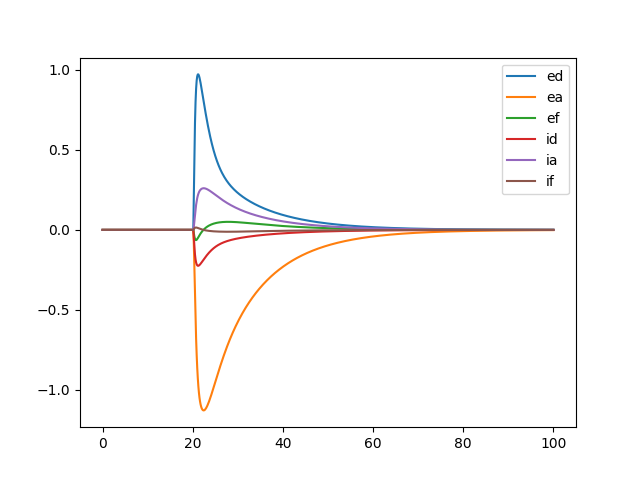
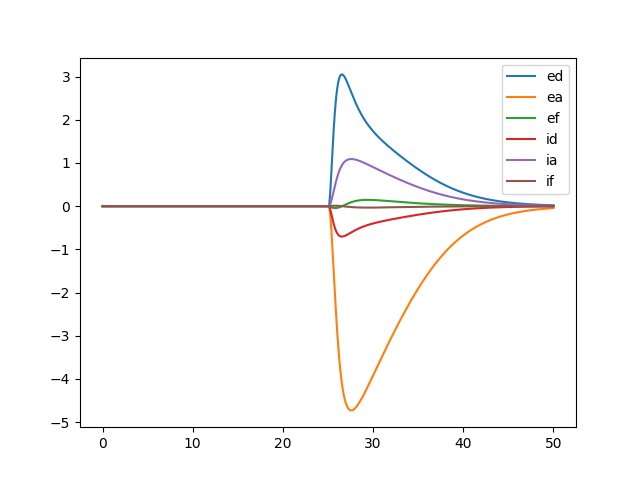
updates

diff --git a/conv.py b/conv.py
@@ -7,93 +7,69 @@ from dependencies import plotting_convention
 from scipy.optimize import minimize
 from scipy.stats import norm
 import pandas
+import pickle
 
-
-#create normally distributed firing rates per kernel
-rv = norm(loc=25, scale=8)
-rv1 = norm(loc=60,scale=10)
-rv2 = norm(loc=80,scale=10)
-rvs=[rv,rv1,rv2]
+kerns = pickle.load(open('data/kernels.p','rb'))
+dt_k = pickle.load(open('data/dts.p','rb'))
+kerns_to_run=[0,1]
+# kerns_to_run = [0,1,3,4]
+# kerns_to_run = [0,1,2,3,4,5]
+param_idx = []
+for i in kerns_to_run:
+    param_idx.append(i*3)
+    param_idx.append(i * 3+1)
+    param_idx.append(i * 3+2)
 
 #3read real data
 df_on = pandas.read_csv('data/inhib_on.csv')
 df_off = pandas.read_csv('data/inhib_blocked.csv')
 
 # parameters
-num_tsteps = 1000
-# num_tsteps = len(df_on['x'])
-kernel_num_tsteps = 200
-num_kernels = 3
-dt = 0.1
+num_tsteps = len(df_off['x'])
+kernel_num_tsteps = len(kerns[0])
+num_kernels = len(kerns[1])
+dt = 20./num_tsteps
+
+dt_k = dt_k/kernel_num_tsteps
 t = np.arange(num_tsteps) * dt
 
-taus = [0.5, 2, 3] #timeconstants
-amps = [1, -0.7, -0.25] #amplitudes
 colors = ['b', 'r', 'orange']
 colors_opt = ['cyan', 'pink', 'yellow']
 kernels = []
-for idx in range(num_kernels):
-    k_ = np.zeros(kernel_num_tsteps)
-    k_[int(kernel_num_tsteps / 2):] = amps[idx] * np.exp(-t[:int(kernel_num_tsteps/2)] / taus[idx])
-    kernels.append(k_)
 
-t_locs = [25, 60, 80]
-stds = [8, 10, 10]
-amps = [1.8, 1, 0.7]
+for idx in kerns_to_run:
+    k_ = kerns[1][idx]
+    kernels.append(k_)
+num_kernels_to_run = len(kernels)
 
 num_params_per_kernel = 3
 
-correct = np.zeros(num_kernels*num_params_per_kernel)
-for j,i in enumerate(range(0,num_kernels*num_params_per_kernel,3)):
-    correct[i]= t_locs[j]
-    correct[i+1]=stds[j]
-    correct[i+2]=amps[j]
-
-firing_rates = [amps[idx] * rvs[idx].pdf(t)
-                for idx in range(num_kernels)]
-
-data = np.zeros(num_tsteps)
-for idx in range(num_kernels):
-    data += ss.convolve(firing_rates[idx], kernels[idx], mode="same")
-
-x0 = [50, 10, 1,
-      50, 10, 1,
-      50, 10, 1,
-      ]
+data = np.asarray(df_off['inhib_blocked'])
 ## VELDIG AVHENGIG AV IINiTALBETINGELSER
 ## LITT TESTING KAN TYDE PÅ AT HØYE VERDIER TREFFER BEDRE ENN LAVE
-x0 = [50, 10, 1,
-      90, 10, 1,
-      90, 10, 1,
+x0 = [15, 5, 1,
+      15, 5, 1,
+      15, 5, 1,
+      15, 5, 1,
+      15, 5, 1,
+      15, 5, 1
       ]
 
-# bounds = [
-#     [t[0], t[-1]], [0, 50], [0, 2],
-#     [t[0], t[-1]], [0, 50], [0, 2],
-#     [t[0], t[-1]], [0, 50], [0, 2],
-#     ]
 bounds = [
     #   loc           std       amp
-    [t[0], t[-1]], [1e-7, 50], [0, 2],
-    [t[0], t[-1]], [1e-7, 50], [0, 2],
-    [t[0], t[-1]], [1e-7, 50], [0, 2],
+    [t[0], t[-1]], [1e-7, 10], [0, 5],
+    [t[0], t[-1]], [1e-7, 10], [0, 5],
+    [t[0], t[-1]], [1e-7, 10], [0, 5],
+    [t[0], t[-1]], [1e-7, 10], [0, 5],
+    [t[0], t[-1]], [1e-7, 10], [0, 5],
+    [t[0], t[-1]], [1e-7, 10], [0, 5]
     ]
-# print(x0)
-# print(bounds)
-def blah(data,l1,l2,l3,s1,s2,s3,a1,a2,a3):
-    RV1 = norm(loc=l1,scale=s1)
-    RV2 = norm(loc=l2, scale=s2)
-    RV3 = norm(loc=l3, scale=s3)
-    fits = ss.convolve(a1*RV1.pdf(t),kernels[0],mode='same')+ss.convolve(a2*RV2.pdf(t),kernels[1],mode='same')+ ss.convolve(a3*RV3.pdf(t),kernels[2],mode='same')
-    return np.sum((data-fits)**2)
 
 def minimize_firing_rates(x, *args):
     data = args[0]
-    fit_ = np.zeros(num_tsteps)
-    for idx in range(num_kernels):
+    fit_ = np.zeros(len(data[0]))
+    for idx in range(num_kernels_to_run):
         RV = norm(loc=x[0 + idx * num_params_per_kernel], scale=x[1 + idx * num_params_per_kernel])
-        # if scale = 0, the above whines. Adding a small number to scale
-        # RV = norm(loc=x[0 + idx * num_params_per_kernel], scale=x[1 + idx * num_params_per_kernel]+1e-7)
         amp_ = x[2 + idx * num_params_per_kernel]
         firing_rate_ = amp_ * RV.pdf(t)
         fit_ += ss.convolve(firing_rate_, kernels[idx],mode="same")
@@ -102,16 +78,14 @@ def minimize_firing_rates(x, *args):
 
 args = [data]
 res = minimize(minimize_firing_rates, x0, args=args, bounds=bounds,tol=1e-25,options={'eps':1e-4})
-print('predicted {}'.format(res['x'].round(1)))
-print('correct  ',correct.round(1))
+print('predicted {}'.format(res['x'][param_idx].round(1)))
+print('initial  ',np.asarray(x0)[param_idx])
 print('error pred',minimize_firing_rates(res['x'],args))
-print('error correct',minimize_firing_rates(correct,args))
 print(res['message'])
 
-# print(res)
 fit = np.zeros(num_tsteps)
 firing_rates_opt = []
-for idx in range(num_kernels):
+for idx in range(num_kernels_to_run):
     RV = norm(loc=res.x[0 + idx * num_params_per_kernel],scale=res.x[1 + idx * num_params_per_kernel])
     amp_ = res.x[2 + idx * num_params_per_kernel]
     firing_rate_ = amp_ * RV.pdf(t)
@@ -126,12 +100,10 @@ ax_sig = fig.add_subplot(133, title="signal (convolution)", xlabel="time")
 
 lines = []
 line_names = []
-for idx in range(num_kernels):
-    l, = ax_fr.plot(t, firing_rates[idx], c=colors[idx])
-    l_, = ax_fr.plot(t, firing_rates_opt[idx], c=colors_opt[idx], ls='--')
-    ax_k.plot(np.arange(kernel_num_tsteps) * dt, kernels[idx][:kernel_num_tsteps], c=colors[idx])
-    lines.append(l)
-    line_names.append("Kernel {}".format(idx))
+for idx in range(num_kernels_to_run):
+    l_, = ax_fr.plot(t, firing_rates_opt[idx])#, c=colors_opt[idx], ls='--')
+    ax_k.plot(np.arange(kernel_num_tsteps) * dt_k,kernels[idx])#, c=colors[idx])
+
     lines.append(l_)
     line_names.append("firing rate fit {}".format(idx))
 

diff --git a/kernels.py b/kernels.py
@@ -1,13 +1,7 @@
 import LFPy
 import numpy as np
 import matplotlib.pyplot as plt
-import sys
-
-
-if len(sys.argv)>1:
-    iters = int(sys.argv[1])
-else:
-    iters = 1
+import pickle
 
 morphology = 'morphologies/L5_Mainen96_LFPy.hoc'
 
@@ -30,7 +24,7 @@ def insert_synapses(synparams, section, n):
 
         # Create synapse(s) and setting times using the Synapse class in LFPy
         s = LFPy.Synapse(cell, **synparams)
-        s.set_spike_times(np.array([20.]))
+        s.set_spike_times(np.array([cell.tstop/2.]))
 
 
 cell_parameters = {
@@ -38,39 +32,32 @@ cell_parameters = {
     'cm': 1.0,  # membrane capacitance
     'Ra': 150.,  # axial resistance
     'v_init': -65.,  # initial crossmembrane potential
-    'passive': True,  # turn on NEURONs passive mechanism for all sections
-    # 'passive': False,  # turn on NEURONs passive mechanism for all sections
-
+    # 'passive': True,  # turn on NEURONs passive mechanism for all sections
+    'passive': False,  # turn on NEURONs passive mechanism for all sections
     'passive_parameters': {'g_pas': 1. / 30000, 'e_pas': -65},
     'nsegs_method': 'lambda_f',  # spatial discretization method
     'lambda_f': 100.,  # frequency where length constants are computed
     'dt': 2. ** -3,  # simulation time step size
     'tstart': -300.,  # start time of simulation, recorders start at t=0
-    'tstop': 100.,  # stop simulation at 100 ms.
+    'tstop': 50.,  # stop simulation at 100 ms.
 }
 # Define synapse parameters
 synapse_parameters = {
     'idx':[],
     'e': 0,  # reversal potential
     # 'syntype': 'ExpSyn',  # synapse type
-    # 'tau': 1.,  # synaptic time constant
+    # 'tau': 0.005,  # synaptic time constant
     'syntype': 'Exp2Syn',
-    'tau1':.2,
-    'tau2':1.,
-
+    'tau1':1.,
+    'tau2':3.,
     'weight': .001,  # synaptic weight
     'record_current': True,  # record synapse current
 }
 
-# soma_pos = np.array([0.,0.,0.])
 p = []
 print("running simulation...")
-
 n_syn=200
 np.random.seed(10)
-# for j in range(iters):
-#     print('iteration', j+1, 'of', iters)
-#     np.random.seed(j+10)
 for i in range(6):
     # Create cell
     cell = LFPy.Cell(**cell_parameters)
@@ -81,30 +68,22 @@ for i in range(6):
     else:
         synapse_parameters['e'] = 0
     if i in [0, 3]:
-        # np.random.seed(1234+j)
         np.random.seed(1234)
         insert_synapses(synapse_parameters,'dend',n_syn)
     if i in [1,4]:
-        # np.random.seed(1234+j)
         np.random.seed(1234)
         insert_synapses(synapse_parameters,'apic',n_syn)
     else:
         np.random.seed(1234)
         insert_synapses(synapse_parameters,'allsec',n_syn)
 
-
-
-    synapse = LFPy.Synapse(cell, **synapse_parameters)
-    synapse.set_spike_times(np.array([20.]))
-    # synapse.set_spike_times(np.array([10.]))
-
     cell.simulate(rec_imem=True,rec_vmem=True,rec_current_dipole_moment=True)
 
     P = cell.current_dipole_moment
     p.append(P)
-
 print("done")
 
+#createfigure
 plt.figure()
 p = np.asarray(p)/n_syn
 legs = ['ed','ea','ef','id','ia','if']
@@ -113,6 +92,5 @@ for i in range(6):
 plt.legend()
 plt.savefig('plots/kernels.png')
 
-# plt.plot()
-# plt.plot(cell.tvec,cell.vmem[0])
-# plt.show()
+pickle.dump([cell.tvec,p[:,:,2]],open('data/kernels.p','wb'))
+pickle.dump(cell_parameters['tstop'],open('data/dts.p','wb'))
